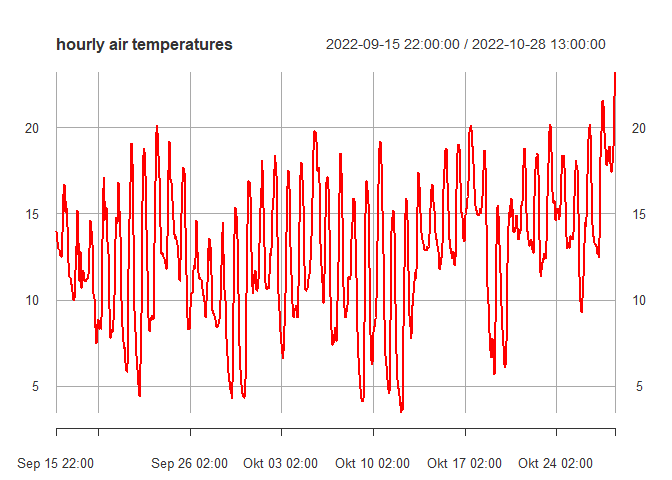
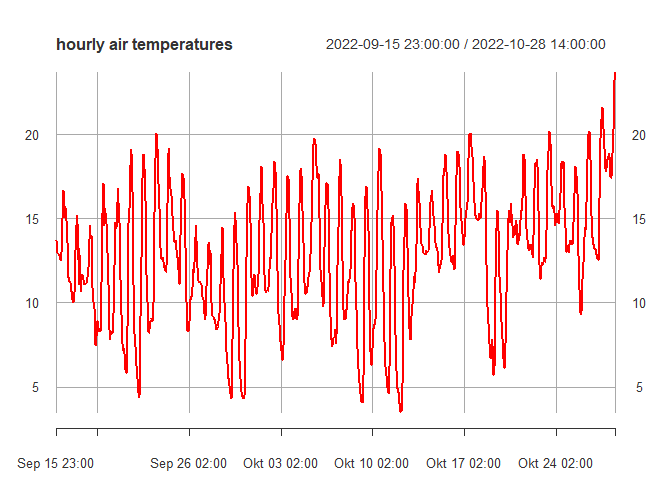
README
suppress pb with `message = FALSE`

diff --git a/README.md b/README.md
@@ -165,31 +165,31 @@ stations <- get_publicdata(ext = e1)
 
 # returning a simple feature collection with x features
 dim(stations)
-#> [1] 308  15
+#> [1] 306  15
 
 # inspect
-head(stations, 10)
-#> Simple feature collection with 10 features and 14 fields
+stations
+#> Simple feature collection with 306 features and 14 fields
 #> Geometry type: POINT
 #> Dimension:     XY
-#> Bounding box:  xmin: 7.031773 ymin: 51.44411 xmax: 7.102418 ymax: 51.45734
+#> Bounding box:  xmin: 6.890062 ymin: 51.34072 xmax: 7.12971 ymax: 51.52976
 #> Geodetic CRS:  WGS 84
-#> # A tibble: 10 × 15
+#> # A tibble: 306 × 15
 #>    status time_server         base_…¹ timez…² country altit…³ city  street  mark
-#>    <chr>  <dttm>              <chr>   <chr>   <chr>     <int> <chr> <chr>  <int>
-#>  1 ok     2022-10-28 14:13:07 70:ee:… Europe… DE          112 Essen Steel…    10
-#>  2 ok     2022-10-28 14:13:07 70:ee:… Europe… DE          114 Essen Steel…    10
-#>  3 ok     2022-10-28 14:13:07 70:ee:… Europe… DE          108 Essen Herwa…    10
-#>  4 ok     2022-10-28 14:13:07 70:ee:… Europe… DE           76 Essen Graff…    10
-#>  5 ok     2022-10-28 14:13:07 70:ee:… Europe… DE           60 Essen Hengl…     1
-#>  6 ok     2022-10-28 14:13:07 70:ee:… Europe… DE           79 Essen Am Kn…    10
-#>  7 ok     2022-10-28 14:13:07 70:ee:… Europe… DE           69 Essen Notte…    10
-#>  8 ok     2022-10-28 14:13:07 70:ee:… Europe… DE           77 Essen Lohmü…    10
-#>  9 ok     2022-10-28 14:13:07 70:ee:… Europe… DE           76 Essen Lohdi…    10
-#> 10 ok     2022-10-28 14:13:07 70:ee:… Europe… DE           98 Essen Märki…    10
-#> # … with 6 more variables: n_modules <int>, NAModule1 <chr>, NAModule2 <chr>,
-#> #   NAModule3 <chr>, NAModule4 <lgl>, geometry <POINT [°]>, and abbreviated
-#> #   variable names ¹base_station, ²timezone, ³altitude
+#>  * <chr>  <dttm>              <chr>   <chr>   <chr>     <int> <chr> <chr>  <int>
+#>  1 ok     2022-10-28 15:43:30 70:ee:… Europe… DE          112 Essen Steel…    10
+#>  2 ok     2022-10-28 15:43:30 70:ee:… Europe… DE          114 Essen Steel…    10
+#>  3 ok     2022-10-28 15:43:30 70:ee:… Europe… DE          108 Essen Herwa…    10
+#>  4 ok     2022-10-28 15:43:30 70:ee:… Europe… DE           76 Essen Graff…    10
+#>  5 ok     2022-10-28 15:43:30 70:ee:… Europe… DE           60 Essen Hengl…    10
+#>  6 ok     2022-10-28 15:43:30 70:ee:… Europe… DE           79 Essen Am Kn…    10
+#>  7 ok     2022-10-28 15:43:30 70:ee:… Europe… DE           69 Essen Notte…    10
+#>  8 ok     2022-10-28 15:43:30 70:ee:… Europe… DE           77 Essen Lohmü…    10
+#>  9 ok     2022-10-28 15:43:30 70:ee:… Europe… DE           76 Essen Lohdi…    10
+#> 10 ok     2022-10-28 15:43:30 70:ee:… Europe… DE           98 Essen Märki…    10
+#> # … with 296 more rows, 6 more variables: n_modules <int>, NAModule1 <chr>,
+#> #   NAModule2 <chr>, NAModule3 <chr>, NAModule4 <lgl>, geometry <POINT [°]>,
+#> #   and abbreviated variable names ¹base_station, ²timezone, ³altitude
 ```
 
 However, since the number of stations returned by /getpublicdata seems
@@ -206,31 +206,31 @@ stations_tiled <- get_publicdata(ext = e1,
 
 # returning a simple feature collection with ca. twice as many features using the same extent as above
 dim(stations_tiled)
-#> [1] 633  15
+#> [1] 628  15
 
 # inspect
-head(stations_tiled, 10)
-#> Simple feature collection with 10 features and 14 fields
+stations_tiled
+#> Simple feature collection with 628 features and 14 fields
 #> Geometry type: POINT
 #> Dimension:     XY
-#> Bounding box:  xmin: 6.90047 ymin: 51.35228 xmax: 6.94243 ymax: 51.37324
+#> Bounding box:  xmin: 6.890062 ymin: 51.34072 xmax: 7.12971 ymax: 51.52976
 #> Geodetic CRS:  WGS 84
-#> # A tibble: 10 × 15
+#> # A tibble: 628 × 15
 #>    status time_server         base_…¹ timez…² country altit…³ city  street  mark
 #>    <chr>  <dttm>              <chr>   <chr>   <chr>     <int> <chr> <chr>  <int>
-#>  1 ok     2022-10-28 14:14:02 70:ee:… Europe… DE           45 Essen Volck…    10
-#>  2 ok     2022-10-28 14:14:02 70:ee:… Europe… DE           46 Essen Eva-H…    10
-#>  3 ok     2022-10-28 14:14:02 70:ee:… Europe… DE           48 Essen Rings…     1
-#>  4 ok     2022-10-28 14:14:02 70:ee:… Europe… DE           98 Essen Laupe…    10
-#>  5 ok     2022-10-28 14:14:02 70:ee:… Europe… DE           46 Essen Johan…     1
-#>  6 ok     2022-10-28 14:14:02 70:ee:… Europe… DE           64 Essen Meist…    10
-#>  7 ok     2022-10-28 14:14:02 70:ee:… Europe… DE           62 Essen Haupt…     1
-#>  8 ok     2022-10-28 14:14:02 70:ee:… Europe… DE           66 Essen Eiche…     1
-#>  9 ok     2022-10-28 14:14:02 70:ee:… Europe… DE           81 Essen Humme…     1
-#> 10 ok     2022-10-28 14:14:02 70:ee:… Europe… DE           45 Mülh… Bauor…    10
-#> # … with 6 more variables: n_modules <int>, NAModule1 <chr>, NAModule2 <chr>,
-#> #   NAModule3 <chr>, NAModule4 <lgl>, geometry <POINT [°]>, and abbreviated
-#> #   variable names ¹base_station, ²timezone, ³altitude
+#>  1 ok     2022-10-28 15:44:23 70:ee:… Europe… DE           45 Essen Volck…    10
+#>  2 ok     2022-10-28 15:44:23 70:ee:… Europe… DE           46 Essen Eva-H…    10
+#>  3 ok     2022-10-28 15:44:23 70:ee:… Europe… DE           48 Essen Rings…    10
+#>  4 ok     2022-10-28 15:44:23 70:ee:… Europe… DE           98 Essen Laupe…    10
+#>  5 ok     2022-10-28 15:44:23 70:ee:… Europe… DE           46 Essen Johan…     1
+#>  6 ok     2022-10-28 15:44:23 70:ee:… Europe… DE           64 Essen Meist…    10
+#>  7 ok     2022-10-28 15:44:23 70:ee:… Europe… DE           62 Essen Haupt…     1
+#>  8 ok     2022-10-28 15:44:23 70:ee:… Europe… DE           66 Essen Eiche…    10
+#>  9 ok     2022-10-28 15:44:23 70:ee:… Europe… DE           81 Essen Humme…     1
+#> 10 ok     2022-10-28 15:44:23 70:ee:… Europe… DE           45 Mülh… Bauor…     1
+#> # … with 618 more rows, 6 more variables: n_modules <int>, NAModule1 <chr>,
+#> #   NAModule2 <chr>, NAModule3 <chr>, NAModule4 <lgl>, geometry <POINT [°]>,
+#> #   and abbreviated variable names ¹base_station, ²timezone, ³altitude
 ```
 
 ### /getmeasure
@@ -251,17 +251,17 @@ To assist you with the latter going backwards from `Sys.time()`,
 # default: `res = 5`
 p1 <- get_period()
 as.POSIXct(p1, origin = "1970-01-01")
-#> [1] "2022-10-25 00:40:00 CEST" "2022-10-28 14:00:00 CEST"
+#> [1] "2022-10-25 01:40:00 CEST" "2022-10-28 15:00:00 CEST"
 
 # here: `res = 60` corresponding to hourly data
 p2 <- get_period(res = 60)
 as.POSIXct(p2, origin = "1970-01-01")
-#> [1] "2022-09-15 22:00:00 CEST" "2022-10-28 14:00:00 CEST"
+#> [1] "2022-09-15 23:00:00 CEST" "2022-10-28 15:00:00 CEST"
 
 # querying the last 24 hours, maybe convenient for scheduled jobs
 p3 <- get_period(x = "recent")
 as.POSIXct(p3, origin = "1970-01-01")
-#> [1] "2022-10-27 14:00:00 CEST" "2022-10-28 14:00:00 CEST"
+#> [1] "2022-10-27 15:00:00 CEST" "2022-10-28 15:00:00 CEST"
 
 # self-defined period
 p4 <- get_period(x = c("2022-06-01", "2022-06-04"))
@@ -275,18 +275,23 @@ some time to finish.
 
 ``` r
 # get subset of data for demonstration purposes
-obs_temperature <- get_measure(devices = stations_tiled[1:10, ], 
-                               period = p2, 
-                               par = "temperature", 
-                               res = 60)
+obs <- get_measure(devices = stations_tiled[1:10, ], 
+                   period = p2, 
+                   par = "temperature", 
+                   res = 60)
 
-class(obs_temperature)
+class(obs)
 #> [1] "list"
-length(obs_temperature)
+length(obs)
 #> [1] 10
+names(obs)
+#>  [1] "70:ee:50:84:48:5a" "70:ee:50:7a:81:24" "70:ee:50:90:91:d6"
+#>  [4] "70:ee:50:1f:63:d2" "70:ee:50:00:c6:8a" "70:ee:50:17:cf:02"
+#>  [7] "70:ee:50:7f:f6:c8" "70:ee:50:7b:12:86" "70:ee:50:05:3b:2c"
+#> [10] "70:ee:50:58:84:c8"
 
 # subset to individual xts object
-xts <- obs_temperature[[1]]
+xts <- obs[[1]]
 
 class(xts)
 #> [1] "xts" "zoo"
@@ -294,12 +299,12 @@ class(xts)
 # inspect index/coredata
 head(xts)
 #>                     temperature
-#> 2022-09-15 22:00:00        14.0
 #> 2022-09-15 23:00:00        13.7
 #> 2022-09-16 00:00:00        13.4
 #> 2022-09-16 01:00:00        13.0
 #> 2022-09-16 02:00:00        12.9
 #> 2022-09-16 03:00:00        12.9
+#> 2022-09-16 04:00:00        12.8
 
 # inspect attribute names appended 
 attributes(xts) |> names() |> tail(-4)
